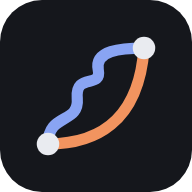
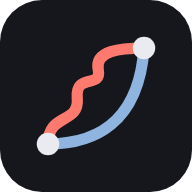
Swiss red and slate blue route colors
- Route A is Swiss red, Route B slate blue: --a #c8281e / --b #2f5a8a
  in light, #ff7a6e / #8fb4e0 in dark; charts read the tokens
- Errors move to a deeper crimson (#931a2e light, #ff8fa3 dark) so they
  don't read as Route A; both stay above 7.8:1 on --bg and --surface
- Report table colors use the new light values
- Report charts are redrawn off-screen at a fixed size with the light-mode
  tokens and background, so exports look the same from dark mode
- App icons redrawn with A in red and B in slate blue (dark-mode values
  on the dark tile), same geometry for every size

Changed region(s): [[0.2188, 0.2188, 0.7812, 0.7812]]

diff --git a/index.html b/index.html
@@ -20,7 +20,7 @@
    --line is for cards and dividers; --ctl edges controls (inputs, buttons, drop zone) at 3:1+ on both --bg and --surface. Radius: 8px everywhere. */
 :root{
   --bg:#f3f4f6; --surface:#fbfbfc; --line:#dcdfe5; --ctl:#858b97; --text:#15171c; --muted:#555b69;
-  --a:#2c55c4; --b:#bb4f19; --err:#b42318; --grid:#e3e6eb;
+  --a:#c8281e; --b:#2f5a8a; --err:#931a2e; --grid:#e3e6eb;
   --btn-bg:#15171c; --btn-fg:#f3f4f6;
   --r:8px; --ease:cubic-bezier(.16,1,.3,1);
   --sans:'Geist',ui-sans-serif,system-ui,-apple-system,'Segoe UI',sans-serif;
@@ -28,7 +28,7 @@
 }
 @media (prefers-color-scheme:dark){:root{
   --bg:#111317; --surface:#171a20; --line:#2b303b; --ctl:#636a79; --text:#e9ebf0; --muted:#a0a7b6;
-  --a:#89a4f3; --b:#f2945f; --err:#f4796f; --grid:#232833;
+  --a:#ff7a6e; --b:#8fb4e0; --err:#ff8fa3; --grid:#232833;
   --btn-bg:#e9ebf0; --btn-fg:#111317;
 }}
 *{margin:0;padding:0;box-sizing:border-box}
@@ -629,17 +629,17 @@ function render(){
   rep.scrollIntoView({behavior:matchMedia('(prefers-reduced-motion: reduce)').matches?'auto':'smooth',block:'start'});
 }
 
-function drawProfile(id,aData,bData,maxVal,unit,thresh){
-  const canvas=$(id);if(!canvas)return;
-  const ctx=canvas.getContext('2d'),dpr=window.devicePixelRatio||1;
-  const W=canvas.clientWidth,H=canvas.clientHeight;
+// tok reads a color token (css for the page's current mode); bg fills the chart, or leaves it transparent when null
+function drawProfile(canvas,W,H,dpr,tok,bg,aData,bData,maxVal,unit,thresh){
+  const ctx=canvas.getContext('2d');
   canvas.width=W*dpr;canvas.height=H*dpr;ctx.setTransform(dpr,0,0,dpr,0,0);
   const fs=W<480?12:11,pad={t:8,r:6,b:fs+14,l:fs*3.6},cW=W-pad.l-pad.r,cH=H-pad.t-pad.b;
   ctx.clearRect(0,0,W,H);
+  if(bg){ctx.fillStyle=bg;ctx.fillRect(0,0,W,H)}
   const maxMile=Math.max(aData[aData.length-1].mile,bData[bData.length-1].mile)||1;
   const x=m=>pad.l+(m/maxMile)*cW,y=v=>pad.t+cH-(Math.min(v,maxVal)/maxVal)*cH;
-  const muted=css('--muted'),grid=css('--grid');
-  ctx.font=fs+'px '+css('--mono');ctx.lineWidth=1;
+  const muted=tok('--muted'),grid=tok('--grid');
+  ctx.font=fs+'px '+tok('--mono');ctx.lineWidth=1;
   for(let i=0;i<=4;i++){const v=maxVal*i/4;ctx.strokeStyle=grid;ctx.beginPath();ctx.moveTo(pad.l,y(v));ctx.lineTo(pad.l+cW,y(v));ctx.stroke();
     ctx.fillStyle=muted;ctx.textAlign='right';ctx.fillText(Math.round(v)+unit,pad.l-6,y(v)+fs*0.35)}
   // Aim for about 3-5 mile labels whatever the route length
@@ -647,15 +647,34 @@ function drawProfile(id,aData,bData,maxVal,unit,thresh){
   ctx.textAlign='center';for(let m=0;m<=maxMile;m+=step){const t=m+' mi',hw=ctx.measureText(t).width/2;ctx.fillText(t,Math.min(Math.max(x(m),hw),W-hw),H-5)}
   if(thresh!=null){ctx.strokeStyle=muted;ctx.setLineDash([3,4]);ctx.beginPath();ctx.moveTo(pad.l,y(thresh));ctx.lineTo(pad.l+cW,y(thresh));ctx.stroke();ctx.setLineDash([])}
   const line=(d,c)=>{ctx.strokeStyle=c;ctx.lineWidth=1.75;ctx.lineJoin='round';ctx.beginPath();d.forEach((p,i)=>i?ctx.lineTo(x(p.mile),y(p.avg)):ctx.moveTo(x(p.mile),y(p.avg)));ctx.stroke()};
-  line(bData,css('--b'));line(aData,css('--a'));
+  line(bData,tok('--b'));line(aData,tok('--a'));
 }
+
+const CHARTS=[
+  ['compositeChart','compositeProfile',100,'',null],
+  ['curveChart','profile',400,'°',200],
+  ['emptyChart','emptyProfile',100,'',null],
+  ['canopyChart','canopyProfile',100,'%',null]];
 
 function renderCharts(){
   if(!routeA||!routeB)return;
-  drawProfile('compositeChart',routeA.compositeProfile,routeB.compositeProfile,100,'',null);
-  drawProfile('curveChart',routeA.profile,routeB.profile,400,'°',200);
-  drawProfile('emptyChart',routeA.emptyProfile,routeB.emptyProfile,100,'',null);
-  drawProfile('canopyChart',routeA.canopyProfile,routeB.canopyProfile,100,'%',null);
+  for(const [id,key,max,unit,thresh] of CHARTS){const c=$(id);if(c)drawProfile(c,c.clientWidth,c.clientHeight,window.devicePixelRatio||1,css,null,routeA[key],routeB[key],max,unit,thresh)}
+}
+
+// Light-mode tokens from the stylesheet's top-level :root rule (the dark values live inside a media rule),
+// so the downloaded report looks the same whatever mode the page is in
+function lightToken(){
+  for(const sheet of document.styleSheets){let rules;try{rules=sheet.cssRules}catch(e){continue}
+    for(const r of rules)if(r.selectorText===':root')return n=>r.style.getPropertyValue(n).trim()}
+  return css;
+}
+
+// Report charts are redrawn off-screen at a fixed size in light mode, not copied from the visible canvases
+function reportCharts(){
+  const tok=lightToken(),out={};
+  for(const [id,key,max,unit,thresh] of CHARTS){const c=document.createElement('canvas');
+    drawProfile(c,896,170,2,tok,tok('--surface'),routeA[key],routeB[key],max,unit,thresh);out[id]=c.toDataURL('image/png')}
+  return out;
 }
 
 function renderTable(){
@@ -685,7 +704,7 @@ async function saveFile(filename,data){
 
 async function exportReport(){
   const a=routeA,b=routeB,nA=esc(name(a)),nB=esc(name(b));
-  const img=id=>$(id).toDataURL('image/png');
+  const charts=reportCharts(),img=id=>charts[id];
   const row=(l,va,vb)=>`<tr><td>${l}</td><td class="a">${va}</td><td class="b">${vb}</td></tr>`;
   const head=`<thead><tr><th></th><th class="a">A: ${nA}</th><th class="b">B: ${nB}</th></tr></thead>`;
   const aM={},bM={};a.milesData.forEach(d=>aM[d.mile]=d);b.milesData.forEach(d=>bM[d.mile]=d);
@@ -695,7 +714,7 @@ async function exportReport(){
 <style>body{font-family:system-ui,sans-serif;max-width:960px;margin:0 auto;padding:32px;color:#15171c;font-size:13px;line-height:1.5}
 h1{font-size:22px;letter-spacing:-.02em}h2{font-size:15px;margin:28px 0 8px}.sub{color:#555b69}
 table{width:100%;border-collapse:collapse}th,td{text-align:left;padding:5px 8px;border-bottom:1px solid #e3e6eb}
-td+td,th+th{text-align:right;font-family:ui-monospace,Menlo,monospace}.a{color:#2c55c4}.b{color:#bb4f19}
+td+td,th+th{text-align:right;font-family:ui-monospace,Menlo,monospace}.a{color:#c8281e}.b{color:#2f5a8a}
 .big{font-size:40px;font-family:ui-monospace,Menlo,monospace}img{width:100%;border:1px solid #e3e6eb;border-radius:8px;margin-top:6px}
 @media print{img{break-inside:avoid}}</style></head><body>
 <h1>Route comparison</h1><p class="sub">Generated ${new Date().toLocaleDateString()}</p>
